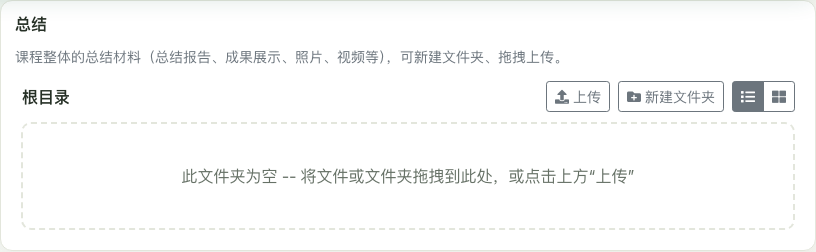
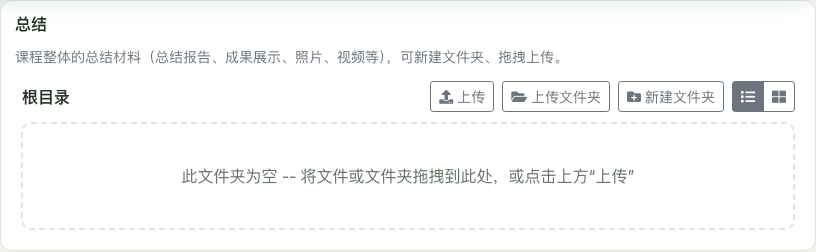
文件管理器: 上传文件夹; 浏览也算活动, 不再被自动登出
- Shared file manager: new 上传文件夹 button (webkitdirectory input);
  webkitRelativePath resolved into real folders via resolveFolder (same-name
  folders merge, like drag-and-drop)
- Session watchdog: pointermove, scroll (captured), input, focus, popstate
  and tab-visible now count as activity, throttled to one check per 15s --
  readers moving the mouse / dragging the scrollbar were logged out
- Teacher manual: 上传文件夹 wording; re-shot lesson-file-manager / plan-summary

Changed region(s): [[0.5208, 0.3611, 0.7353, 0.4444], [0.5208, 0.3056, 0.674, 0.3333]]

diff --git a/react-app/src/components/lesson-file-manager.component.js b/react-app/src/components/lesson-file-manager.component.js
@@ -31,9 +31,12 @@ import { tr, LOCALE } from "../i18n";
 //    only upload path that can mix loose files and whole folders in one go --
 //    no browser's click-to-browse file dialog can do that (a dialog is locked
 //    into either multi-*file* mode or single-*folder* mode before it even
-//    opens, never both), so "上传" intentionally doesn't try to offer a
-//    folder option at all; it's plain multi-file only, see below.
-//  - "上传" -- a plain multi-file <input>, no folder mode.
+//    opens, never both), hence the two separate buttons below.
+//  - "上传" -- a plain multi-file <input>.
+//  - "上传文件夹" -- a webkitdirectory <input>: picks one folder, whose files
+//    arrive flat with a webkitRelativePath ("Top/sub/a.txt") that
+//    resolveRelativePath turns back into real (merged-if-existing) folders.
+//    Empty subfolders aren't reported by the browser, so they're not created.
 // Same-name handling (backend enforces nothing here -- it's a pure UX
 // courtesy, matching a real OS's copy-conflict dialog): a folder with the same
 // name as an existing sibling is merged into it (its contents uploaded into
@@ -164,6 +167,20 @@ const walkEntry = async (entry, parentFolderId, planId, lessonIndex, folderCache
   }
 };
 
+// For a "上传文件夹" pick: resolves every directory segment of a file's
+// webkitRelativePath (all but the last, which is the filename) under
+// parentFolderId, creating/merging folders through resolveFolder so the
+// shared folderCache keeps siblings from being created twice.
+const resolveRelativePath = async (relativePath, parentFolderId, planId, lessonIndex, folderCache, folderService) => {
+  const dirs = (relativePath || "").split("/").filter(Boolean).slice(0, -1);
+  let folderId = parentFolderId;
+  for (const name of dirs) {
+    // eslint-disable-next-line no-await-in-loop
+    folderId = await resolveFolder(name, folderId, planId, lessonIndex, folderCache, folderService);
+  }
+  return folderId;
+};
+
 // Image thumbnail for a file space whose download route requires auth (an
 // <img src> can't send the x-access-token header): fetches the bytes
 // through artifactService.download and shows them from a blob: URL.
@@ -239,6 +256,16 @@ const LessonFileManager = ({
   const [moveDialogOpen, setMoveDialogOpen] = useState(false);
   const [moveDialogFolderId, setMoveDialogFolderId] = useState(null); // picker's own current folder
   const fileInputRef = useRef(null);
+  const folderInputRef = useRef(null);
+  // webkitdirectory/directory are non-standard attributes React won't
+  // reliably pass through as props, so they're set on the DOM node directly.
+  const setFolderInput = useCallback((node) => {
+    folderInputRef.current = node;
+    if (node) {
+      node.setAttribute("webkitdirectory", "");
+      node.setAttribute("directory", "");
+    }
+  }, []);
 
   // download is a public (no-auth) GET route (artifact.routes.js /
   // material-artifact.routes.js alike), so this can be used directly as an
@@ -440,6 +467,35 @@ const LessonFileManager = ({
     const files = Array.from(e.target.files || []);
     e.target.value = ""; // allow re-picking the same file(s) again later
     await uploadResolvedFiles(files.map((file) => ({ file, folderId: currentFolderId })));
+  };
+
+  const handleFolderInputChange = async (e) => {
+    const files = Array.from(e.target.files || []);
+    e.target.value = "";
+    if (files.length === 0 || isUploading) return;
+    setMessage("");
+    try {
+      const folderCache = [...folders];
+      const toUpload = [];
+      // Sequential: a file's folders may be created by the file before it.
+      for (const file of files) {
+        // eslint-disable-next-line no-await-in-loop
+        const folderId = await resolveRelativePath(
+          file.webkitRelativePath || file.name,
+          currentFolderId,
+          planId,
+          lessonIndex,
+          folderCache,
+          folderService
+        );
+        toUpload.push({ file, folderId });
+      }
+      await uploadResolvedFiles(toUpload);
+    } catch (err) {
+      console.log(err);
+      setMessage(err?.response?.data?.message || tr("上传失败。"));
+      await refreshAll();
+    }
   };
 
   const startCreateFolder = () => {
@@ -850,6 +906,15 @@ const LessonFileManager = ({
                   <i className="fas fa-upload mr-1"></i>{tr("上传")}
                 </button>
                 <input ref={fileInputRef} type="file" multiple className="d-none" onChange={handleFileInputChange} />
+                <button
+                  type="button"
+                  className="btn btn-sm btn-outline-secondary mr-2"
+                  disabled={isUploading}
+                  onClick={() => folderInputRef.current && folderInputRef.current.click()}
+                >
+                  <i className="fas fa-folder-open mr-1"></i>{tr("上传文件夹")}
+                </button>
+                <input ref={setFolderInput} type="file" multiple className="d-none" onChange={handleFolderInputChange} />
               </>
             )}
             {canEdit && !isCreatingFolder && (

diff --git a/backend/app/services/teacherManualGenerator.js b/backend/app/services/teacherManualGenerator.js
@@ -490,12 +490,12 @@ push(
   h2("3. 支撑材料上传（执行阶段辅助材料，可多文件/整文件夹）"),
   p(
     "每个课时的「支撑材料」板块提供类似网盘的文件管理器，点击「上传」可一次选择多个文件，" +
-      "也可以直接将文件或整个文件夹拖拽到面板中（拖拽文件夹时会保留原有的目录结构）。"
+      "点击「上传文件夹」可选择一个文件夹整体上传，也可以直接将文件或整个文件夹拖拽到面板中（上传文件夹时会保留原有的目录结构，空的子文件夹除外）。"
   ),
   bulletItem("对文件类型没有限制，也没有单文件大小限制。"),
   bulletItem(
     '若上传的文件与已有文件重名，会提示「"文件名" 已存在，是否替换？」，可选择替换或跳过；' +
-      "拖拽文件夹时若同名文件夹已存在，则会自动合并内容。"
+      "上传或拖拽文件夹时若同名文件夹已存在，则会自动合并内容。"
   ),
   bulletItem("系统会依据扩展名自动识别文件类别（视频/图片/课件PPT等），仅用于图标展示，不影响存放位置。"),
   note("支撑材料的详细管理方式（新建文件夹、移动、重命名等）见本手册「十三、执行阶段支撑材料管理」一章。")
@@ -869,6 +869,7 @@ push(
     ["功能", "说明"],
     [
       ["上传", "点击「上传」按钮多选文件，或将文件/文件夹直接拖拽到面板中（拖拽文件夹会保留原有目录结构）。"],
+      ["上传文件夹", "点击「上传文件夹」选择一个文件夹，连同其中的子文件夹与文件整体上传，保留原有目录结构。"],
       ["新建文件夹", "点击「新建文件夹」创建子文件夹，支持任意层级嵌套。"],
       ["预览", "选中单个文件时可用，在新标签页中查看内容。"],
       ["下载", "支持多选下载；若选中内容包含文件夹，会自动打包为压缩包下载。"],
@@ -891,7 +892,7 @@ push(
     "课程设计详情页左侧目录中「计划」「实施」之下还有一个「总结」入口，是整门课程共用的网盘式文件空间，" +
       "用于存放不属于某一个课时、而是面向整门课程的总结材料，例如总结报告、成果展示、照片、视频等。"
   ),
-  bulletItem("使用方式与上面的「支撑材料」文件管理器完全相同：上传、拖拽整个文件夹、新建文件夹、预览、下载、移动、重命名、删除。"),
+  bulletItem("使用方式与上面的「支撑材料」文件管理器完全相同：上传、上传文件夹、拖拽整个文件夹、新建文件夹、预览、下载、移动、重命名、删除。"),
   bulletItem("「总结」中的文件不计入「实施完成度」（实施完成度只统计各课时的实施记录与支撑材料）。"),
   bulletItem("权限与「支撑材料」相同：所有者可全部操作，其他可查看本课程设计的用户只能查看和下载。"),
   ...screenshot("plan-summary", "「总结」文件空间")
@@ -988,7 +989,7 @@ push(
   h2("发布分享"),
   bulletItem("在左侧点击话题，再点击右侧话题栏中的「我要分享」。"),
   bulletItem("填写「标题」（必填）、「简介」（可选），并可在「关联课程」中选择您的一门乡土课程（可选）。"),
-  bulletItem("点击「发布」后即进入这条分享，在下方「分享内容」中上传文件：与「支撑材料」相同的文件管理器，支持多文件、拖拽整个文件夹、新建文件夹、移动和删除。"),
+  bulletItem("点击「发布」后即进入这条分享，在下方「分享内容」中上传文件：与「支撑材料」相同的文件管理器，支持多文件、上传或拖拽整个文件夹、新建文件夹、移动和删除。"),
   h2("修改与删除分享"),
   bulletItem("只有分享的作者本人和管理员可以修改或删除分享，以及上传、删除其中的文件；其他用户只能浏览和下载。"),
   bulletItem("打开分享，点击「编辑」修改标题、简介或关联课程；点击「删除本分享」将永久删除该分享及其全部文件，无法恢复。"),

diff --git a/react-app/src/services/session-watchdog.js b/react-app/src/services/session-watchdog.js
@@ -31,8 +31,18 @@ const CHECK_INTERVAL_MS = 30 * 1000;
 // enough that an active user never gets near the auto-save window, rarely
 // enough that typing doesn't send a request per keystroke. Timer-driven
 // polls deliberately don't count (see auth-header.js#backgroundAuthHeader).
+//
+// Browsing counts too, not just typing/clicking: someone reading a long plan
+// moves the mouse, drags the scrollbar (no wheel event), or scrolls with
+// touch momentum, without ever pressing a key -- and was getting logged out
+// mid-read. pointermove/scroll (captured, so scrolls of inner panes like the
+// explorer content count as well), IME "input" (Chinese typing), focus and
+// back/forward navigation are all activity now. Several of these fire very
+// often, so onActivity is throttled to one look per ACTIVITY_THROTTLE_MS
+// before it even reads localStorage.
 const RENEW_AFTER_SECONDS = 5 * 60;
-const ACTIVITY_EVENTS = ["keydown", "pointerdown", "wheel", "touchstart"];
+const ACTIVITY_THROTTLE_MS = 15 * 1000;
+const ACTIVITY_EVENTS = ["keydown", "input", "pointerdown", "pointermove", "wheel", "scroll", "touchstart", "focus", "popstate"];
 
 // How long before expiry to auto-save unsaved edits (see
 // utils/sessionExpiryGuard.js) -- has to be comfortably wider than the check
@@ -82,8 +92,12 @@ const startSessionWatchdog = () => {
   };
 
   let renewing = false;
+  let lastActivityCheck = 0;
   const onActivity = () => {
     if (renewing || autoSaving) return;
+    const nowMs = Date.now();
+    if (nowMs - lastActivityCheck < ACTIVITY_THROTTLE_MS) return;
+    lastActivityCheck = nowMs;
     const user = AuthService.getCurrentUser();
     if (!user || !AuthService.isValid() || !user.thisLogin) return;
     if (Math.floor(Date.now() / 1000) - user.thisLogin < RENEW_AFTER_SECONDS) return;
@@ -101,7 +115,10 @@ const startSessionWatchdog = () => {
   // alone can lag well past the real expiry -- check immediately when the
   // tab comes back into view, and when another tab changes the session.
   document.addEventListener("visibilitychange", () => {
-    if (document.visibilityState === "visible") check();
+    if (document.visibilityState === "visible") {
+      check();
+      onActivity();
+    }
   });
   window.addEventListener("storage", (e) => {
     if (e.key === "user" || e.key === null) check();

diff --git a/react-app/src/i18n/en/part6.js b/react-app/src/i18n/en/part6.js
@@ -229,5 +229,6 @@ const en = {
   "总结": "Summary",
   "总结.zip": "Summary.zip",
   "课程整体的总结材料（总结报告、成果展示、照片、视频等），可新建文件夹、拖拽上传。": "Wrap-up materials for the whole course (summary report, showcase, photos, videos, etc.). Create folders and drag files in to upload.",
+  "上传文件夹": "Upload folder",
 };
 export default en;
